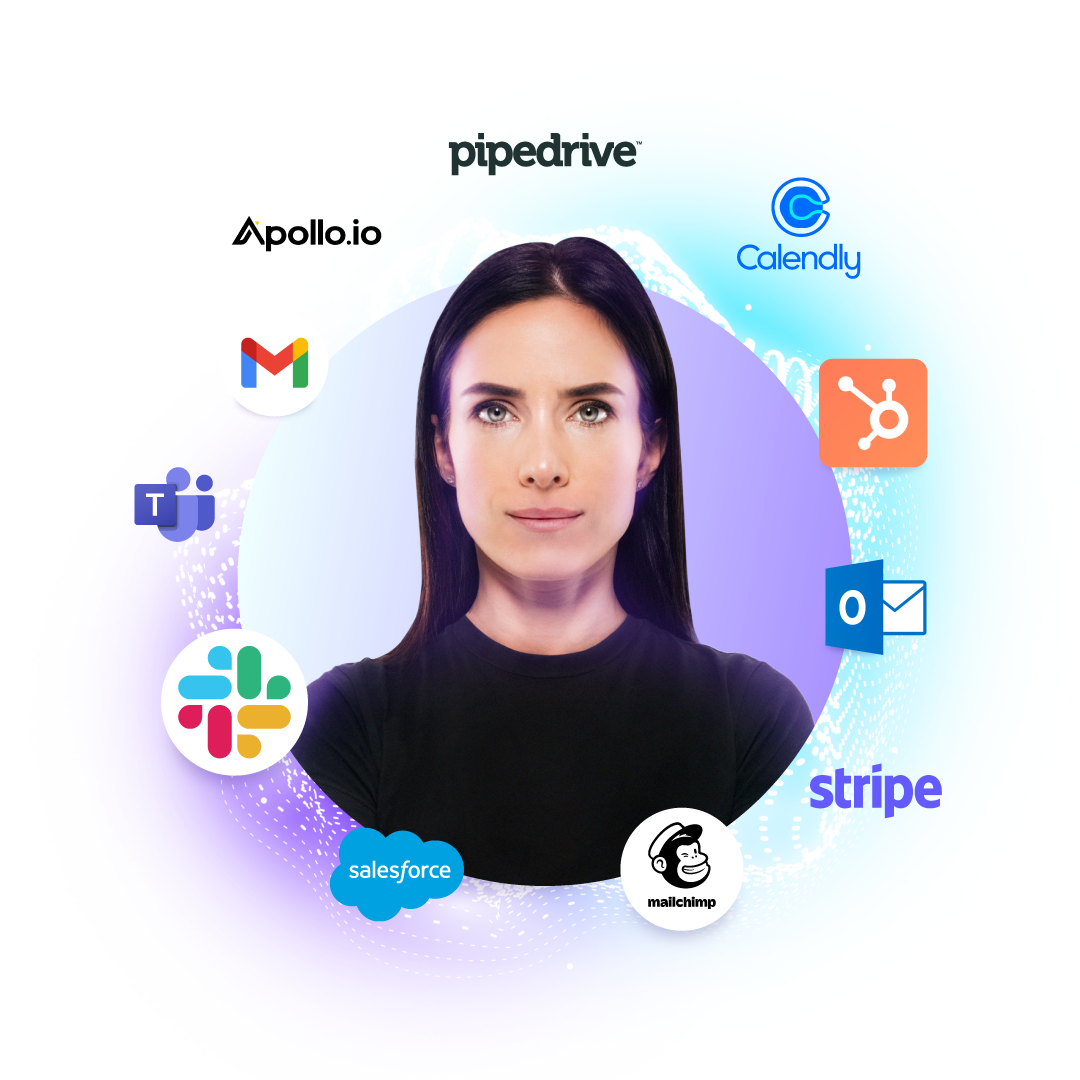
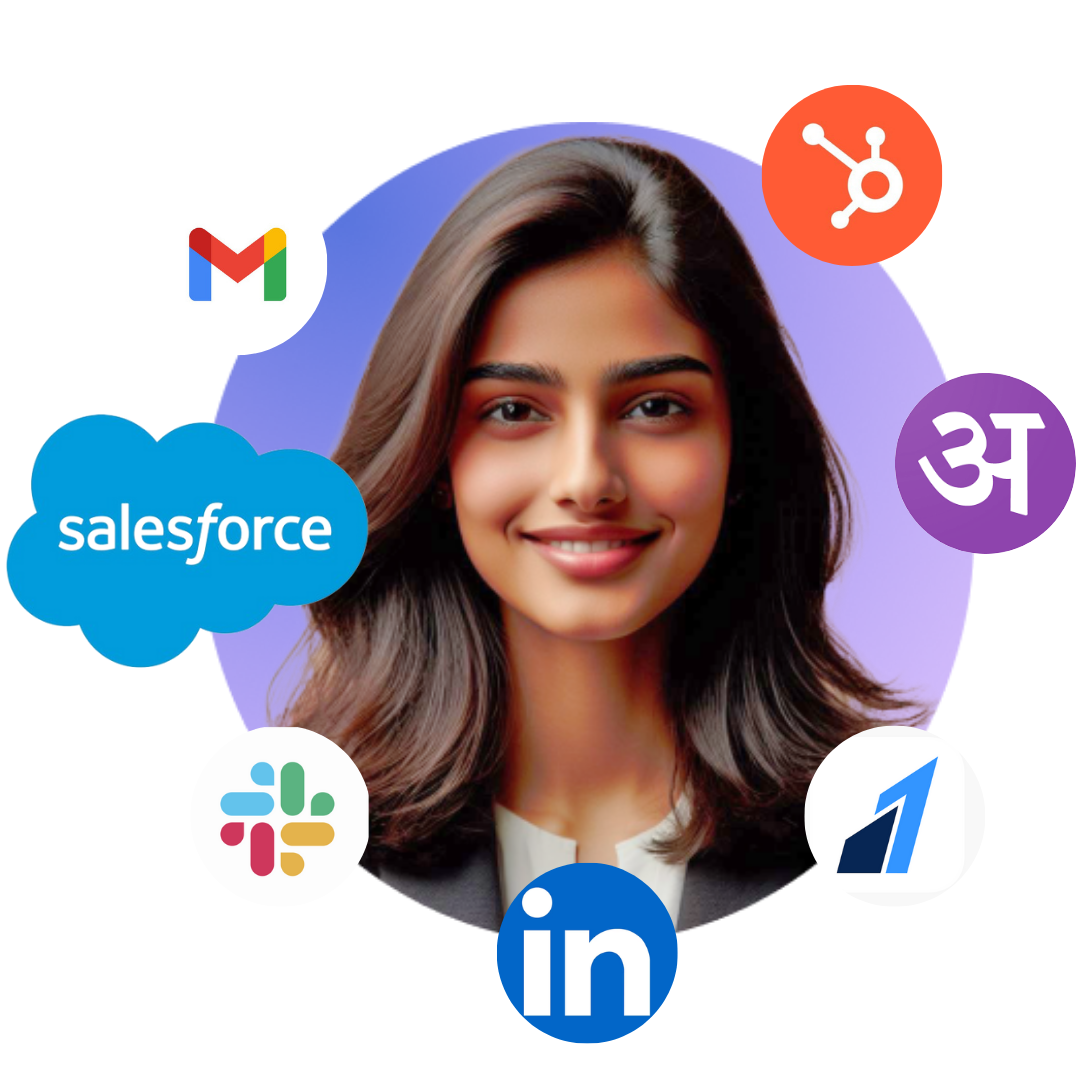
added assets and changed hero image

diff --git a/components/ComingSoon/Comingsoon.tsx b/components/ComingSoon/Comingsoon.tsx
@@ -40,42 +40,43 @@ const profiles = [
 
 const ComingSoon = () => {
   return (
-    <div className="w-[100%] flex justify-center items-center flex-col mx-auto py-5 px-2">
-      <div className="text-3xl tablet:text-4xl font-bold text-center text-tertiary py-4 font-poppins text-gray-800">
-        <p>Alchemyst Coming Soon</p>
-      </div>
+    <></>
+    // <div className="w-[100%] flex justify-center items-center flex-col mx-auto py-5 px-2">
+    //   <div className="text-3xl tablet:text-4xl font-bold text-center text-tertiary py-4 font-poppins text-gray-800">
+    //     <p>Alchemyst Coming Soon</p>
+    //   </div>
 
-      <section className="flex gap-10 font-poppins flex-row desktop:flex-wrap desktop:flex-row justify-center items-center">
-        {profiles.map(({ image, name, description, points }, index) => 
-        (
-          <div key={index} className="max-w-sm bg-white flex justify-end items-center flex-col">
-            <div className='w-full flex justify-center items-center relative top-16' >
-                <Image src={image} alt={`profile ${index + 1}`} className="rounded-t-lg z-20 shadow-sm h-[10rem] w-[13rem]" />
-            </div>
+    //   <section className="flex gap-10 font-poppins flex-row desktop:flex-wrap desktop:flex-row justify-center items-center">
+    //     {profiles.map(({ image, name, description, points }, index) => 
+    //     (
+    //       <div key={index} className="max-w-sm bg-white flex justify-end items-center flex-col">
+    //         <div className='w-full flex justify-center items-center relative top-16' >
+    //             <Image src={image} alt={`profile ${index + 1}`} className="rounded-t-lg z-20 shadow-sm h-[10rem] w-[13rem]" />
+    //         </div>
 
-            <div className="px-[50px] pt-[80px] pb-5 border-purple-800 border-[2px] rounded-xl h-[35rem] mobile:w-[40rem] desktop:w-[20rem] lg:w-[22rem] lg:h-[40rem] xl:w-[24rem] desktop:h-max flex flex-col justify-around">
-              <h5 className="mb-2 text-3xl font-bold text-tertiary text-center mobile:text-4xl text-gray-800">
-                {name}
-              </h5>
-              <p className="mb-2 text-xl font-medium text-tertiary text-center text-gray-800">
-                {description}
-              </p>
-              <ul className="mb-3 pl-8 pt-6 font-semibold text-tertiary justify-center list-disc mobile:text-xl">
-                {points.map((point, index) => (
-                  <li key={index} className="pb-2 text-gray-800">
-                    {point}
-                  </li>
-                ))}
-              </ul>
-              <button className="text-gray-800 text-lg font-poppins rounded-lg bg-floralwhite text-tertiary border-[1px] border-tertiary py-2 px-8 font-semibold mobile:text-xl max-w-max self-center">
-                {`Hire ${name.split(',')[0]}`}
-              </button>
-            </div>
+    //         <div className="px-[50px] pt-[80px] pb-5 border-purple-800 border-[2px] rounded-xl h-[35rem] mobile:w-[40rem] desktop:w-[20rem] lg:w-[22rem] lg:h-[40rem] xl:w-[24rem] desktop:h-max flex flex-col justify-around">
+    //           <h5 className="mb-2 text-3xl font-bold text-tertiary text-center mobile:text-4xl text-gray-800">
+    //             {name}
+    //           </h5>
+    //           <p className="mb-2 text-xl font-medium text-tertiary text-center text-gray-800">
+    //             {description}
+    //           </p>
+    //           <ul className="mb-3 pl-8 pt-6 font-semibold text-tertiary justify-center list-disc mobile:text-xl">
+    //             {points.map((point, index) => (
+    //               <li key={index} className="pb-2 text-gray-800">
+    //                 {point}
+    //               </li>
+    //             ))}
+    //           </ul>
+    //           <button className="text-gray-800 text-lg font-poppins rounded-lg bg-floralwhite text-tertiary border-[1px] border-tertiary py-2 px-8 font-semibold mobile:text-xl max-w-max self-center">
+    //             {`Hire ${name.split(',')[0]}`}
+    //           </button>
+    //         </div>
 
-          </div>
-        ))}
-      </section>
-    </div>
+    //       </div>
+    //     ))}
+    //   </section>
+    // </div>
   );
 }
 

diff --git a/components/Hero/index.tsx b/components/Hero/index.tsx
@@ -3,6 +3,13 @@ import Image from "next/image";
 import { useState } from "react";
 import AboutSpecial from "../About/(components)/AboutSpecial";
 
+import aboutimg from  '@/src/assets/aboutimage.png'
+import heroimg from '@/src/assets/bgimg1.png'
+
+import localFont from 'next/font/local'
+
+// const myFont = localFont({src :'public/fonts/Lastica.ttf',variable: '--font-lastica' })
+
 const Hero = () => {
   const [email, setEmail] = useState("");
 
@@ -12,8 +19,12 @@ const Hero = () => {
 
   return (
     <>
-      <section className="overflow-hidden pb-20 pt-35 md:pt-40 xl:pb-25 xl:pt-46">
-        <div className="mx-auto max-w-c-1390 px-4 md:px-8 2xl:px-0">
+      {/* <Image src={aboutimg} alt="Hero" /> */}
+      <section className={`overflow-hidden pb-20 pt-35 md:pt-40 xl:pb-25 xl:pt-46 relative `}>
+        {/* <div className=" absolute top-0 left-0 w-full h-full -z-20">
+          <Image src={heroimg} alt="Hero" />
+        </div> */}
+        <div className="mx-auto max-w-c-1390 px-4 md:px-8 2xl:px-0  ">
           <div className="flex lg:items-center lg:gap-8 xl:gap-32.5">
             <div className=" md:w-1/2">
               <h4 className="mb-4.5 text-lg font-medium text-black dark:text-white">
@@ -59,42 +70,9 @@ const Hero = () => {
 
             <div className="animate_right hidden md:w-1/2 lg:block">
               <div className="relative 2xl:-mr-7.5">
-                <AboutSpecial />
-                {/* <Image
-                  src="/images/shape/shape-01.png"
-                  alt="shape"
-                  width={46}
-                  height={246}
-                  className="absolute -left-11.5 top-0"
-                />
-                <Image
-                  src="/images/shape/shape-02.svg"
-                  alt="shape"
-                  width={36.9}
-                  height={36.7}
-                  className="absolute bottom-0 right-0 z-10"
-                />
-                <Image
-                  src="/images/shape/shape-03.svg"
-                  alt="shape"
-                  width={21.64}
-                  height={21.66}
-                  className="absolute -right-6.5 bottom-0 z-1"
-                /> */}
-                {/* <div className=" relative aspect-[700/444] w-full border-2 border-red-600">
-                  <Image
-                    className="shadow-solid-l dark:hidden"
-                    src="/images/hero/hero-light.svg"
-                    alt="Hero"
-                    fill
-                  />
-                  <Image
-                    className="hidden shadow-solid-l dark:block"
-                    src="/images/hero/hero-dark.svg"
-                    alt="Hero"
-                    fill
-                  />
-                </div> */}
+                <div className="overflow-hidden">
+                  <Image src={aboutimg} alt="Hero" className="w-[150vw] h-[120%]" />
+                </div>
               </div>
             </div>
           </div>

diff --git a/components/Featurecustom/Featurecustom.tsx b/components/Featurecustom/Featurecustom.tsx
@@ -101,24 +101,25 @@ const FeatureCustom = () => {
   ];
 
   return (
-    <div className="w-full flex justify-center items-center flex-col mx-auto py-10 px-2 bg-white">
-      <div className="text-2xl tablet:text-2xl font-bold text-center text-tertiary my-4 pb-20 font-poppins text-gray-800">
-        <p>Alchemyst Are The First Generation Of <br /> Human-Like Digital Workers</p>
-      </div>
+    <></>
+    // <div className="w-full flex justify-center items-center flex-col mx-auto py-10 px-2 bg-white">
+    //   <div className="text-2xl tablet:text-2xl font-bold text-center text-tertiary my-4 pb-20 font-poppins text-gray-800">
+    //     <p>Alchemyst Are The First Generation Of <br /> Human-Like Digital Workers</p>
+    //   </div>
 
-      <main className="flex flex-row gap-y-32 gap-x-10 font-poppins w-full mx-auto justify-center items-center min-h-[38rem] desktop:flex-row desktop:flex-wrap">
-        {features.map(({image,title,description}, index) => (
-        //   <FeatureCard key={index} {...feature} />
-            <div key={index} className="max-w-sm flex justify-end items-end py-2 min-w-[25rem] desktop:min-w-[22rem]">
-                <div className="px-5 py-10 border-purple-500 border-[2.5px] rounded-xl relative h-[22rem]">
-                    <Image src={image} alt={title} className="rounded-t-lg z-20 absolute top-[-45%] left-[50%] -translate-x-[50%] shadow-sm" />
-                    <h5 className="text-3xl font-bold tracking-tight text-tertiary">{title}</h5>
-                    <p className="py-6 text-xl sm:text-2xl font-medium text-tertiary">{description}</p>
-                </div>
-            </div>
-        ))}
-      </main>
-    </div>
+    //   <main className="flex flex-row gap-y-32 gap-x-10 font-poppins w-full mx-auto justify-center items-center min-h-[38rem] desktop:flex-row desktop:flex-wrap">
+    //     {features.map(({image,title,description}, index) => (
+    //     //   <FeatureCard key={index} {...feature} />
+    //         <div key={index} className="max-w-sm flex justify-end items-end py-2 min-w-[25rem] desktop:min-w-[22rem]">
+    //             <div className="px-5 py-10 border-purple-500 border-[2.5px] rounded-xl relative h-[22rem]">
+    //                 <Image src={image} alt={title} className="rounded-t-lg z-20 absolute top-[-45%] left-[50%] -translate-x-[50%] shadow-sm" />
+    //                 <h5 className="text-3xl font-bold tracking-tight text-tertiary">{title}</h5>
+    //                 <p className="py-6 text-xl sm:text-2xl font-medium text-tertiary">{description}</p>
+    //             </div>
+    //         </div>
+    //     ))}
+    //   </main>
+    // </div>
   );
 };
 

diff --git a/components/Header/index.tsx b/components/Header/index.tsx
@@ -7,6 +7,8 @@ import { useEffect, useState } from "react";
 import ThemeToggler from "./ThemeToggler";
 import menuData from "./menuData";
 
+import alchemystnavimg from '@/src/assets/alchemystnavimg.png'
+
 const Header = () => {
   const [navigationOpen, setNavigationOpen] = useState(false);
   const [dropdownToggler, setDropdownToggler] = useState(false);
@@ -37,22 +39,12 @@ const Header = () => {
     >
       <div className="relative mx-auto max-w-c-1390 items-center justify-between px-4 md:px-8 xl:flex 2xl:px-0">
         <div className="flex w-full items-center justify-between xl:w-1/4">
+          {/* removed image present initially due to responsive issues */}
+          {/* <div className="border-2 border-black border-solid overflow-hidden">
+            <Image src={alchemystnavimg} alt="alchemy logo" height={80} className="rounded-md w-full h-full" />
+          </div> */}
           <a href="/" className="text-bold text-2xl">
-            ALchemyst
-            {/* <Image
-              src="/images/logo/logo-dark.svg"
-              alt="logo"
-              width={119.03}
-              height={30}
-              className="hidden w-full dark:block"
-            /> */}
-            {/* <Image
-              src="/images/logo/logo-light.svg"
-              alt="logo"
-              width={119.03}
-              height={30}
-              className="w-full dark:hidden"
-            /> */}
+            ALCHEMYST AI
           </a>
 
           {/* <!-- Hamburger Toggle BTN --> */}

diff --git a/tailwind.config.ts b/tailwind.config.ts
@@ -14,6 +14,12 @@ module.exports = {
       inter: ["Inter", "sans-serif"],
     },
     extend: {
+      // fontFamily: {
+      //   lastica: ["Lastica", "sans-serif"],
+      // },
+      backgroundImage:{
+        'herobg' : "url('./src/assets/bgimg1.png')",
+      },
       colors: {
         current: "currentColor",
         transparent: "transparent",

diff --git a/app/globals.css b/app/globals.css
@@ -2,6 +2,8 @@
 @tailwind components;
 @tailwind utilities;
 
+/* @import '@/public/fonts/fonts.css'; */
+
 /* third-party libraries CSS */
 
 .testimonial-01 .swiper-pagination-bullet {

diff --git a/src/styles/fonts.css b/src/styles/fonts.css
@@ -1,0 +1,6 @@
+@font-face {
+  font-family: 'lastica';
+  src: url('./fonts/Lastica.ttf') format('ttf'),
+  font-weight: normal;
+  font-style: normal;
+}
